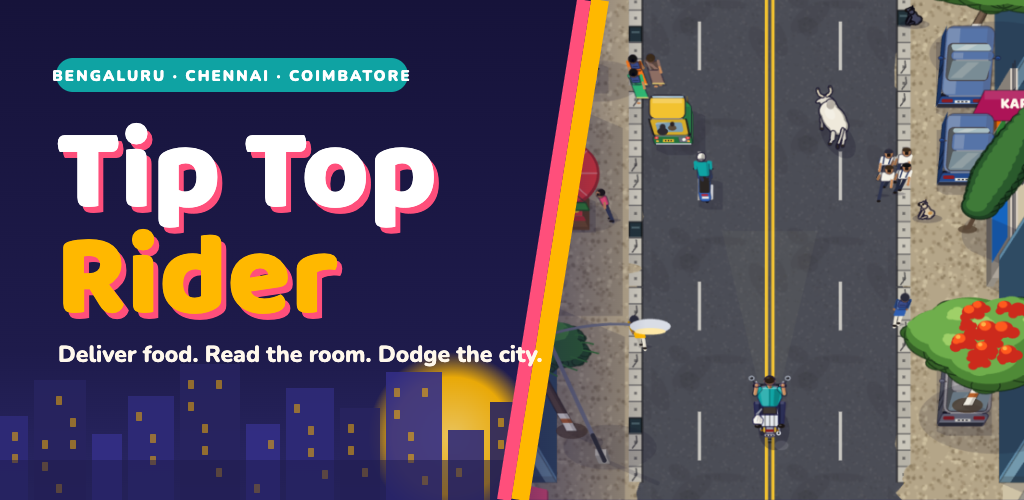
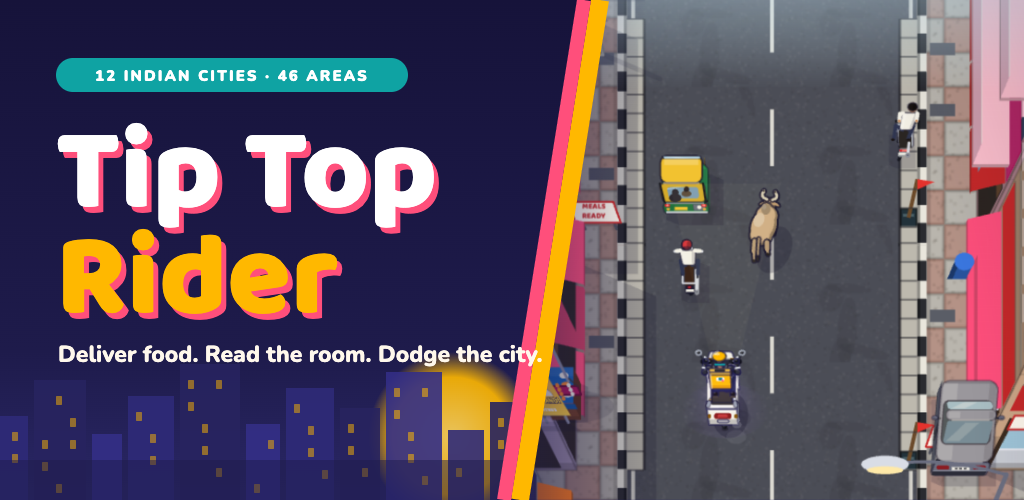
Tip Top Rider 1.4.0: new screenshots and features, Play/beta buttons by device, privacy update

Changed region(s): [[0.5, 0.0, 1.0, 1.0], [0.0312, 0.12, 0.4062, 0.18], [0.8125, 0.57, 0.8438, 0.66]]

diff --git a/tiptoprider/index.html b/tiptoprider/index.html
@@ -4,7 +4,7 @@
 <meta charset="utf-8">
 <meta name="viewport" content="width=device-width, initial-scale=1">
 <title>Tip Top Rider: Delivery Game</title>
-<meta name="description" content="A food-delivery bike game on real Indian streets. Ride from the Pollachi villages to Delhi NCR, dodge cows and autos, keep your regulars happy and buy your dream bike.">
+<meta name="description" content="A food-delivery bike game on real Indian streets. Ride from the Pollachi villages to Delhi NCR, dodge cows and autos, drift into the drop zone with one-tap Style Park, fill your TURBO and ride anything from a bicycle to a superbike.">
 <meta property="og:title" content="Tip Top Rider: Delivery Game">
 <meta property="og:description" content="Deliver food. Read the room. Dodge the city. A bike delivery game set on real Indian streets.">
 <meta property="og:image" content="https://johnjayasingh.github.io/tiptoprider/img/feature.png">
@@ -33,9 +33,11 @@ h1{font:800 clamp(38px,6vw,64px)/1 "Baloo 2",sans-serif;margin:0 0 6px;text-shad
 .btn{display:inline-flex;align-items:center;gap:8px;padding:12px 20px;border-radius:999px;font:800 17px "Baloo 2",sans-serif;text-decoration:none;border:0}
 .btn.play{background:var(--ink);color:#fff;box-shadow:0 4px 0 rgba(0,0,0,.25)}.btn.play small{display:block;font:700 11px Nunito,sans-serif;opacity:.8;line-height:1}
 .btn.ghost{background:rgba(255,255,255,.9);color:var(--ink)}
+.beta{margin:12px 0 0;font-weight:700;font-size:15px;max-width:40ch;color:#fff;text-shadow:0 1px 2px rgba(30,27,75,.35)}.beta a{color:#fff;font-weight:800}.beta span{display:block;font-size:13.5px;opacity:.92}
+.ver{display:inline-block;margin-top:14px;background:rgba(30,27,75,.55);color:#fff;border-radius:999px;padding:4px 12px;font-weight:800;font-size:13px}
 .phone{justify-self:center;width:min(300px,78vw);aspect-ratio:600/1170;border-radius:34px;border:8px solid #14122e;overflow:hidden;box-shadow:0 18px 40px rgba(20,18,46,.45);background:#14122e;transform:rotate(2deg)}
-.phone img{width:100%;height:100%;object-fit:cover;display:block}
-section{padding:48px 0}
+.phone picture{display:block;width:100%;height:100%}.phone img{width:100%;height:100%;object-fit:cover;display:block}
+section{padding:48px 0}main>section.wrap{padding-top:44px;padding-bottom:4px}
 h2{font:800 clamp(28px,4vw,36px)/1.1 "Baloo 2",sans-serif;margin:0 0 8px}
 .kicker{color:var(--muted);font-weight:700;margin:0 0 24px;max-width:60ch}
 .feat{display:grid;grid-template-columns:repeat(auto-fill,minmax(230px,1fr));gap:14px}
@@ -43,7 +45,8 @@ h2{font:800 clamp(28px,4vw,36px)/1.1 "Baloo 2",sans-serif;margin:0 0 8px}
 .f .i{font-size:30px}.f h3{font:800 20px "Baloo 2",sans-serif;margin:6px 0 4px}.f p{margin:0;color:var(--muted);font-weight:700;font-size:15.5px}
 .shots{display:flex;gap:14px;overflow-x:auto;scroll-snap-type:x mandatory;padding:4px 2px 14px;-webkit-overflow-scrolling:touch}
 .shots figure{margin:0;flex:0 0 auto;width:220px;scroll-snap-align:start}
-.shots img{width:100%;border-radius:18px;display:block;box-shadow:0 8px 20px rgba(20,18,46,.2);background:#222}
+.shots img{width:100%;height:auto;border-radius:18px;display:block;box-shadow:0 8px 20px rgba(20,18,46,.2);background:#222}
+.new .f{border-color:var(--mari)}.new .f .tag{display:inline-block;background:var(--pink);color:#fff;border-radius:999px;font:800 11px Nunito,sans-serif;letter-spacing:.08em;padding:2px 8px;vertical-align:middle;margin-left:6px}
 .shots figcaption{font-weight:800;font-size:14px;color:var(--muted);margin-top:8px;text-align:center}
 .band{background:var(--ink);color:#fff}.band .kicker{color:#c9c5ef}
 .pro{display:grid;grid-template-columns:1fr 1fr;gap:20px;align-items:center}
@@ -59,15 +62,17 @@ footer nav{display:flex;gap:16px;flex-wrap:wrap}
 <header class="hero">
   <div class="wrap">
     <div>
-      <div class="brand"><img src="img/icon.webp" alt=""><b>Tip Top Rider</b></div>
+      <div class="brand"><img src="img/icon.webp" alt="" width="56" height="56"><b>Tip Top Rider</b></div>
       <h1>Tip Top <span>Rider</span></h1>
       <p class="sub">The Indian food-delivery bike game</p>
       <p class="lede">Deliver food. Read the room. Dodge the city. From village roads in Pollachi to the jams of Delhi NCR.</p>
       <div class="cta">
-        <a class="btn play" href="https://play.google.com/apps/internaltest/4700508840905994876" target="_blank" rel="noopener" aria-label="Early access on Google Play">▶ <span><small>Early access on</small>Google Play</span></a>
+        <a class="btn play" data-play href="https://play.google.com/store/apps/details?id=com.johnjayasingh.tiptoprider">▶ <span><small>Get it on</small>Google Play</span></a>
       </div>
+      <p class="beta"><a data-beta href="https://play.google.com/apps/testing/com.johnjayasingh.tiptoprider">Join the beta test</a><span>Sign in with your Google account and tap Become a tester, then install from Google Play.</span></p>
+      <span class="ver">Version 1.4.0 · Android beta</span>
     </div>
-    <div class="phone"><img src="img/ride-village.jpg" alt="Riding a moped past paddy fields, goats and tiled-roof houses in a Pollachi village"></div>
+    <div class="phone"><picture><source srcset="img/style-park.webp" type="image/webp"><img src="img/style-park.jpg" alt="Style park: the delivery bike has just drifted onto the marker in the green drop zone and the customer cheers: Smoke and style! Love it!" width="600" height="1170"></picture></div>
   </div>
 </header>
 
@@ -76,24 +81,44 @@ footer nav{display:flex;gap:16px;flex-wrap:wrap}
     <h2>Every delivery is a little story</h2>
     <p class="kicker">Hand-drawn Indian streets, real bikes (with parody names), and customers who remember you.</p>
     <div class="feat">
-      <div class="f"><div class="i">🛵</div><h3>Ride real Indian roads</h3><p>Cows that ignore your horn, autos cutting in, open drains, potholes, rain puddles and speed breakers with a gap only locals know.</p></div>
+      <div class="f"><div class="i">🛵</div><h3>Ride real Indian roads</h3><p>Cows that ignore your horn, autos cutting in, open drains, potholes, rain puddles, and speed breakers that throw you in the air if you hit them too fast.</p></div>
       <div class="f"><div class="i">🗺</div><h3>Village to metro</h3><p>Start in the Pollachi villages, then Coimbatore, Mysuru, Madurai, Kochi, Vizag, and up to Chennai, Bengaluru, Hyderabad, Pune, Mumbai and Delhi NCR.</p></div>
       <div class="f"><div class="i">🤝</div><h3>Regulars who remember you</h3><p>300+ customers and restaurants. Be polite, ride smooth, and strangers become family: bigger tips, faster parcels, free chai.</p></div>
-      <div class="f"><div class="i">🏍</div><h3>Buy your dream bike</h3><p>From a rattling moped to a superbike. Pay in full and do the lemon-and-coconut puja, or take an EMI and hope the recovery agent never visits.</p></div>
-      <div class="f"><div class="i">📞</div><h3>Calls, cops and chaos</h3><p>Customers ring you mid-ride, police check your helmet, superbike gangs blast past, and the jam gets so bad you squeeze through.</p></div>
+      <div class="f"><div class="i">🏍</div><h3>Buy your dream bike</h3><p>42 bikes, from a ₹350 bicycle and a rattling moped to 10 adventure bikes and superbikes. Pay in full and do the lemon-and-coconut puja, or take an EMI and hope the recovery agent never visits.</p></div>
+      <div class="f"><div class="i">📞</div><h3>Calls, cops and chaos</h3><p>Customers ring you mid-ride, police check your helmet (run and they will catch you), superbike gangs blast past, and the jam gets so bad you squeeze through.</p></div>
       <div class="f"><div class="i">📸</div><h3>Photo shoot</h3><p>Pose with your bike in front of Charminar, the Marina or the Coimbatore hills and share it with your friends.</p></div>
+    </div>
+  </section>
+
+  <section class="wrap new" aria-labelledby="new-title">
+    <h2 id="new-title">New in version 1.4</h2>
+    <p class="kicker">The biggest update yet: easier controls, a practice street, stunts at the door and a lot more to ride.</p>
+    <div class="feat">
+      <div class="f"><div class="i">👆</div><h3>Ride your way</h3><p>Four control schemes: Follow finger (slide anywhere and the bike follows), Thumb ring, Tilt or a two-thumb handlebar. Bigger FASTER and BRAKE buttons, and the horn honks by itself.</p></div>
+      <div class="f"><div class="i">🎓</div><h3>Rider Academy</h3><p>A quiet practice street with friendly lesson cards for speed, braking, reversing, squeezing through, U-turns, fuel and charging. Nothing can go wrong.</p></div>
+      <div class="f"><div class="i">✨</div><h3>One-tap Style Park</h3><p>Stop anywhere in the big green zone and walk the bag to the door, or tap STYLE PARK and drift or stoppie right onto the marker. Some customers cheer, some don't.</p></div>
+      <div class="f"><div class="i">⚡</div><h3>TURBO and power-ups</h3><p>Close shaves, slipstreams and overtakes fill your TURBO. Grab coin runs, a coin magnet, a food shield, extra time, a boost and Rider Sense.</p></div>
+      <div class="f"><div class="i">🧠</div><h3>Rider Sense</h3><p>Your rider learns to steer around people, animals and traffic, and gets better with every shift.</p></div>
+      <div class="f"><div class="i">🚲</div><h3>Bicycles</h3><p>A city roadster, a mountain bike and a road bike. Pedal power with an energy meter, no fuel, no police paperwork, and traffic gives you room.</p></div>
+      <div class="f"><div class="i">🏔</div><h3>10 adventure bikes</h3><p>Tall, tough bikes that ride straight over potholes and speed breakers. Switch rides any time from My bikes in your garage.</p></div>
+      <div class="f"><div class="i">🚑</div><h3>Help is on the way</h3><p>Took a few tumbles? A friendly ambulance crew patches you up and fixes your bike. Keep falling and they will have a word with you.</p></div>
+      <div class="f"><div class="i">🎵</div><h3>20 riding songs</h3><p>Original tracks, 10 of them South Indian, with separate music and sound switches, a music volume and a traffic level from Light to Full.</p></div>
     </div>
   </section>
 
   <section class="wrap">
     <h2>Screenshots</h2>
     <div class="shots">
-      <figure><img src="img/ride-village.jpg" alt="Village road in Pollachi" loading="lazy"><figcaption>Pollachi villages</figcaption></figure>
-      <figure><img src="img/ride-hyderabad.jpg" alt="Old city traffic near Charminar, Hyderabad" loading="lazy"><figcaption>Charminar, Hyderabad</figcaption></figure>
-      <figure><img src="img/ride-delhi.jpg" alt="Connaught Place, Delhi" loading="lazy"><figcaption>Connaught Place, Delhi</figcaption></figure>
-      <figure><img src="img/home.jpg" alt="Home screen with the city list" loading="lazy"><figcaption>12 cities, 46 areas</figcaption></figure>
-      <figure><img src="img/showroom-puja.jpg" alt="New bike puja at the showroom with lemons under the tyres" loading="lazy"><figcaption>New bike puja</figcaption></figure>
-      <figure><img src="img/delivery-photo.jpg" alt="Delivery photo with the new bike and the salesman" loading="lazy"><figcaption>Your delivery photo</figcaption></figure>
+      <figure><picture><source srcset="img/style-park.webp" type="image/webp"><img src="img/style-park.jpg" alt="Style park: the bike drifts onto the marker in the green drop zone while the customer cheers" width="600" height="1170" loading="lazy"></picture><figcaption>One-tap Style Park</figcaption></figure>
+      <figure><picture><source srcset="img/turbo.webp" type="image/webp"><img src="img/turbo.jpg" alt="TURBO firing next to a red bus on a rainy Bandra road, with a food shield power-up running" width="600" height="1170" loading="lazy"></picture><figcaption>TURBO in the Mumbai rain</figcaption></figure>
+      <figure><picture><source srcset="img/academy.webp" type="image/webp"><img src="img/academy.jpg" alt="Rider Academy lesson card: Cows own the road, lesson 7 of 18" width="600" height="1170" loading="lazy"></picture><figcaption>Rider Academy</figcaption></figure>
+      <figure><picture><source srcset="img/cycle.webp" type="image/webp"><img src="img/cycle.jpg" alt="Riding a road bike through Fort Kochi with coins ahead and cars keeping their distance" width="600" height="1170" loading="lazy"></picture><figcaption>Bicycles, Fort Kochi</figcaption></figure>
+      <figure><picture><source srcset="img/door.webp" type="image/webp"><img src="img/door.jpg" alt="Door card for a happy customer with a Loved your stoppie chip and three reply choices" width="600" height="1170" loading="lazy"></picture><figcaption>Read every customer</figcaption></figure>
+      <figure><picture><source srcset="img/ambulance.webp" type="image/webp"><img src="img/ambulance.jpg" alt="Paramedics bandage the rider next to an ambulance with its rear doors open in Chandni Chowk" width="600" height="1170" loading="lazy"></picture><figcaption>Friendly paramedics</figcaption></figure>
+      <figure><picture><source srcset="img/adventure.webp" type="image/webp"><img src="img/adventure.jpg" alt="Showroom reveal of the Bavaria GS 1250 Adventure with the rider cheering" width="600" height="1170" loading="lazy"></picture><figcaption>Adventure bikes</figcaption></figure>
+      <figure><picture><source srcset="img/power-ups.webp" type="image/webp"><img src="img/power-ups.jpg" alt="Coin magnet pulling coins to the rider near Charminar, with food shield and coin magnet timers" width="600" height="1170" loading="lazy"></picture><figcaption>Coins and power-ups</figcaption></figure>
+      <figure><picture><source srcset="img/ride-village.webp" type="image/webp"><img src="img/ride-village.jpg" alt="Riding a scooter down a village road in Pollachi past fields, carts and cows" width="600" height="1170" loading="lazy"></picture><figcaption>Pollachi villages</figcaption></figure>
+      <figure><img src="img/showroom-puja.jpg" alt="New bike puja at the showroom with lemons under the tyres" width="600" height="1170" loading="lazy"><figcaption>New bike puja</figcaption></figure>
     </div>
   </section>
 
@@ -105,7 +130,7 @@ footer nav{display:flex;gap:16px;flex-wrap:wrap}
         <ul><li>🚫 No ads between shifts</li><li>💰 2× earnings every shift</li><li>💸 +15% tips from every customer</li><li>🏍 Free test rides on any bike</li><li>⭐ Pro badge on your rider</li></ul>
         <p class="kicker" style="margin:0">Monthly, yearly or once for life. Small coin packs from ₹10.</p>
       </div>
-      <img src="img/photo-shoot.jpg" alt="A shareable photo of a rider with their bike and stats" loading="lazy">
+      <img src="img/photo-shoot.jpg" alt="A shareable photo of a rider with their bike and stats" width="720" height="900" loading="lazy">
     </div>
   </section>
 
@@ -125,5 +150,16 @@ footer nav{display:flex;gap:16px;flex-wrap:wrap}
     <nav><a href="privacy.html">Privacy Policy</a><a href="terms.html">Terms of Use</a><a href="mailto:johnjayasingh.s@gmail.com">Contact</a></nav>
   </div>
 </footer>
+<script>
+// Google Play links: the store page on Android (opens the Play app); everywhere else the testing opt-in page, because
+// the app is in closed testing and the store page shows "not found" to anyone who has not joined. New tab on desktop only.
+(function(){var ua=navigator.userAgent||'',d=navigator.userAgentData,
+  android=/Android/i.test(ua)||!!(d&&/android/i.test(d.platform||'')),
+  mobile=android||/iPhone|iPad|iPod|Mobile/i.test(ua)||!!(d&&d.mobile)||(navigator.platform==='MacIntel'&&navigator.maxTouchPoints>1),
+  T='https://play.google.com/apps/testing/com.johnjayasingh.tiptoprider';
+  document.querySelectorAll('a[data-play]').forEach(function(a){if(!android)a.href=T});
+  if(!mobile)document.querySelectorAll('a[data-play],a[data-beta]').forEach(function(a){a.target='_blank';a.rel='noopener'});
+})();
+</script>
 </body>
 </html>

diff --git a/index.html b/index.html
@@ -62,19 +62,21 @@
             <p class="game-lead">A food-delivery bike game set on real Indian streets, from the village roads of Pollachi to Mumbai's monsoon traffic. I built it end to end, from the rendering engine to the store release.</p>
             <ul class="facts">
               <li><b>12 cities</b> and 46 areas, each with its own landmarks and food</li>
-              <li><b>30 bikes</b>, from a rattling moped to a 300 km/h superbike</li>
+              <li><b>42 bikes</b>, from a ₹350 bicycle to a 300 km/h superbike</li>
+              <li><b>New in 1.4:</b> one-tap Style Park, TURBO, the Rider Academy and four ways to ride</li>
               <li><b>300+ customers</b> with moods, who remember how you treated them</li>
               <li><b>Plays offline</b> on Android and iPhone</li>
             </ul>
             <div class="actions">
-              <a class="btn btn-pink" href="tiptoprider/">Visit the game page</a>
-              <a class="btn btn-onink" href="https://play.google.com/apps/internaltest/4700508840905994876" target="_blank" rel="noopener">Early access on Google Play</a>
+              <a class="btn btn-pink" data-play href="https://play.google.com/store/apps/details?id=com.johnjayasingh.tiptoprider">Get it on Google Play</a>
+              <a class="btn btn-line-light" href="tiptoprider/">Visit the game page</a>
+              <p class="beta"><a data-beta href="https://play.google.com/apps/testing/com.johnjayasingh.tiptoprider">Join the beta test</a><span>Sign in with your Google account and tap Become a tester, then install from Google Play.</span></p>
             </div>
           </div>
           <div class="phones" aria-label="Screenshots from Tip Top Rider">
-            <figure class="phone p1"><img src="tiptoprider/img/showroom-puja.jpg" alt="A new bike gets a puja with lemons under the tyres at the showroom" width="600" height="1170" loading="lazy" /></figure>
-            <figure class="phone p2"><img src="tiptoprider/img/ride-hyderabad.jpg" alt="Riding through Hyderabad traffic near Charminar" width="600" height="1170" /></figure>
-            <figure class="phone p3"><img src="tiptoprider/img/home.jpg" alt="Choosing an area in Pollachi on the home screen" width="600" height="1170" loading="lazy" /></figure>
+            <figure class="phone p1"><picture><source srcset="tiptoprider/img/turbo.webp" type="image/webp" /><img src="tiptoprider/img/turbo.jpg" alt="TURBO firing next to a red bus on a rainy Mumbai road" width="600" height="1170" loading="lazy" /></picture></figure>
+            <figure class="phone p2"><picture><source srcset="tiptoprider/img/style-park.webp" type="image/webp" /><img src="tiptoprider/img/style-park.jpg" alt="Style park: the delivery bike drifts onto the marker in the green drop zone while the customer cheers" width="600" height="1170" /></picture></figure>
+            <figure class="phone p3"><picture><source srcset="tiptoprider/img/adventure.webp" type="image/webp" /><img src="tiptoprider/img/adventure.jpg" alt="Showroom reveal of a blue adventure bike with the rider cheering" width="600" height="1170" loading="lazy" /></picture></figure>
           </div>
         </div>
         <div class="wrap built">
@@ -146,6 +148,16 @@
     </footer>
     <script>
       document.getElementById('year').textContent = new Date().getFullYear();
+      // Google Play links: the store page on Android (opens the Play app); everywhere else the testing opt-in page,
+      // because the app is in closed testing and the store page shows "not found" to non-testers. New tab on desktop only.
+      (function () {
+        var ua = navigator.userAgent || '', d = navigator.userAgentData;
+        var android = /Android/i.test(ua) || !!(d && /android/i.test(d.platform || ''));
+        var mobile = android || /iPhone|iPad|iPod|Mobile/i.test(ua) || !!(d && d.mobile) || (navigator.platform === 'MacIntel' && navigator.maxTouchPoints > 1);
+        var T = 'https://play.google.com/apps/testing/com.johnjayasingh.tiptoprider';
+        document.querySelectorAll('a[data-play]').forEach(function (a) { if (!android) a.href = T; });
+        if (!mobile) document.querySelectorAll('a[data-play],a[data-beta]').forEach(function (a) { a.target = '_blank'; a.rel = 'noopener'; });
+      })();
       // fan the game screenshots out once, when the band scrolls into view
       (function () {
         var band = document.getElementById('game');

diff --git a/tiptoprider/privacy.html b/tiptoprider/privacy.html
@@ -107,7 +107,7 @@
     <li>We do not send any of this to a server, and we do not use it for ads.</li>
     <li>Google and Apple handle the sign-in itself under their own privacy policies: <a href="https://policies.google.com/privacy" rel="noopener">Google Privacy Policy</a>, <a href="https://www.apple.com/legal/privacy/" rel="noopener">Apple Privacy Policy</a>.</li>
   </ul>
-  <p>We do not offer cloud save yet. If that changes, we will update this policy before it launches and tell you in the app.</p>
+  <p>Signing in is not needed for cloud save. Cloud save uses your own iCloud or Google Play Games account on the phone, as described in section 2, and never sends anything to us.</p>
 
   <h2 id="ads"><span class="n">4.</span>Ads (Google AdMob)</h2>
   <p>The game is free and supported by ads from <strong>Google AdMob</strong>: a full-screen ad between shifts, and optional rewarded ads that you choose to watch for an in-game bonus. The Google Mobile Ads SDK in the app collects and shares the following with Google:</p>
@@ -145,6 +145,7 @@
   <ul>
     <li>No GPS or precise location. The game never asks for location permission. The cities and streets in the game are drawn, not tracked.</li>
     <li>No camera, microphone, photos, contacts, calendar, SMS or files.</li>
+    <li>The game reads the phone's tilt (motion sensor) on the phone, only so the Tilt controls can steer the bike. The readings are not stored or sent anywhere.</li>
     <li>No chat, multiplayer, friends lists or user-generated content.</li>
     <li>No payment card or UPI details. Payments are handled entirely by Google Play or the App Store (see section 4a).</li>
     <li>No analytics or crash-reporting tools of our own. Only the diagnostics collected by the ads SDK described in section 4.</li>

diff --git a/index.css b/index.css
@@ -89,13 +89,19 @@ ul { padding: 0; list-style: none; }
 .facts b { color: #fff; }
 .btn-pink { background: var(--pink); color: #fff; box-shadow: 0 4px 0 #B8335A; }
 .btn-pink:hover { background: #FF6A8F; }
+.btn-line-light { color: #fff; box-shadow: inset 0 0 0 2px rgba(255, 255, 255, .55); }
+.btn-line-light:hover { background: rgba(255, 255, 255, .08); }
 .soon { color: #B8B4E8; font-weight: 500; }
 .btn-onink { color: #fff; box-shadow: inset 0 0 0 2px rgba(255,255,255,.75); }
 .btn-onink:hover { background: rgba(255,255,255,.08); }
+.beta { flex-basis: 100%; margin: 0; color: #B8B4E8; font-size: 15px; }
+.beta a { color: #fff; font-weight: 700; text-decoration-color: var(--marigold); text-decoration-thickness: 2px; text-underline-offset: 3px; }
+.beta span { display: block; font-size: 14px; }
 
 .phones { position: relative; height: clamp(420px, 46vw, 600px); }
 .phone { position: absolute; top: 50%; left: 50%; width: clamp(150px, 16vw, 222px); aspect-ratio: 600 / 1170; padding: 7px; border-radius: 28px; background: #0B0920; box-shadow: 0 24px 48px rgba(0, 0, 0, .45), 0 0 0 1px rgba(255, 255, 255, .12);
   transform: translate(-50%, -50%) rotate(var(--r)) translateX(var(--x)); transition: transform .9s cubic-bezier(.2, .8, .2, 1); }
+.phone picture { display: block; width: 100%; height: 100%; }
 .phone img { width: 100%; height: 100%; object-fit: cover; border-radius: 22px; }
 .p1 { --r: -9deg; --x: -62%; z-index: 1; }
 .p2 { --r: 0deg; --x: 0%; z-index: 3; top: 47%; }
